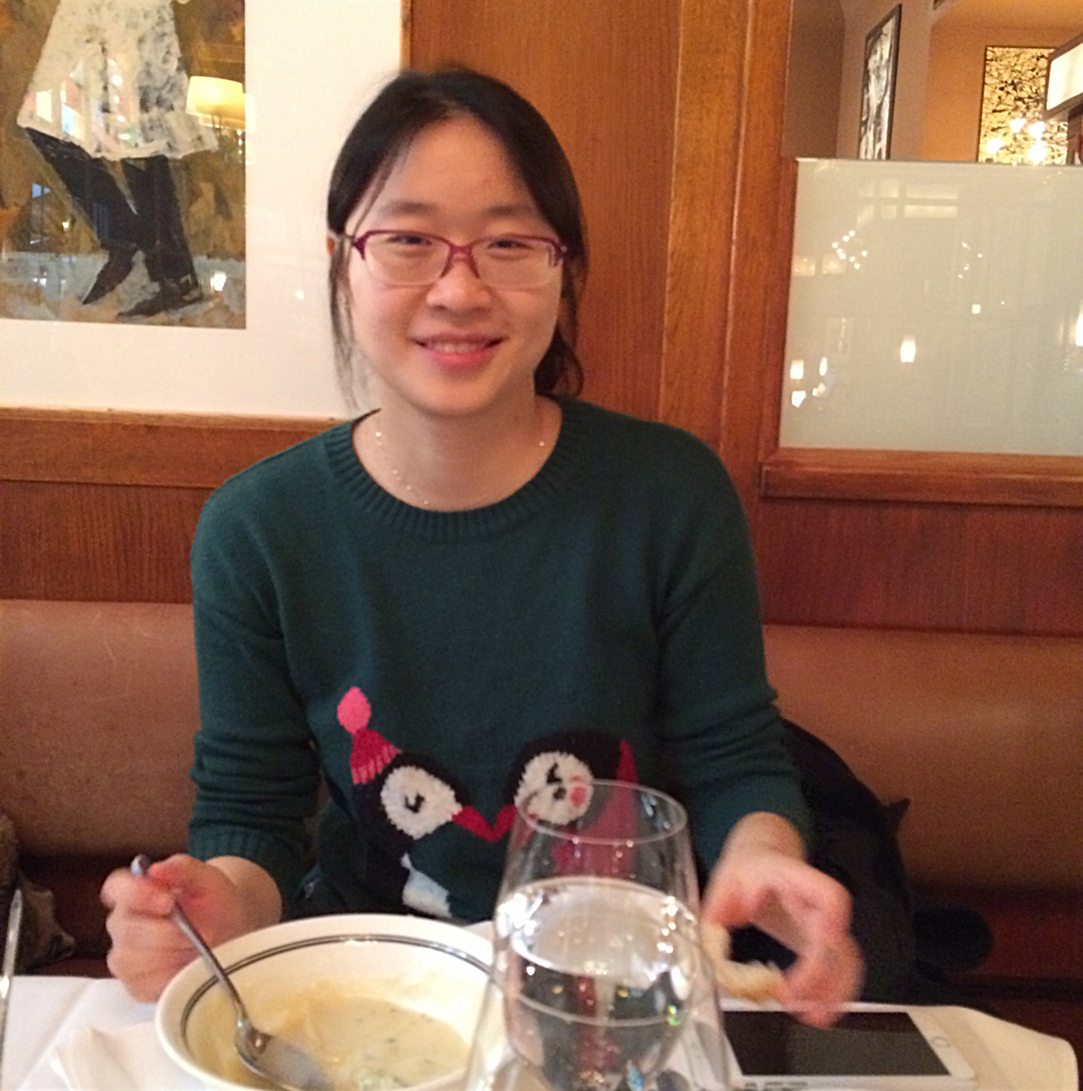
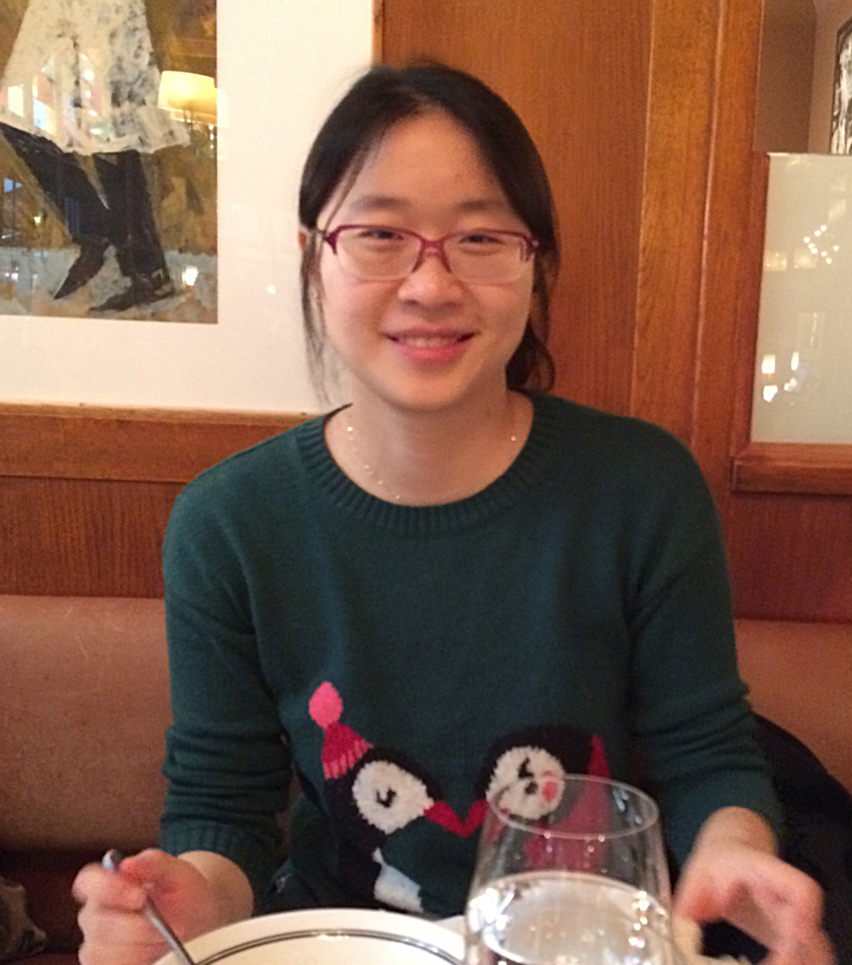
Changed to fixed size images and cropped the bunch

diff --git a/index.html b/index.html
@@ -226,7 +226,7 @@
                 <div class="col-sm-2"></div>
                 <div class="col-sm-2">
                     <div class="team-member">
-                        <img src="img/Kevin_Profile.jpg" class="img-responsive img-circle" alt=""><h4>Kevin</h4><ul class="list-inline social-buttons"><li><a href="mailto:kevinbw@kth.se"><i class="fa fa-envelope"></i></a>
+                        <img src="img/Kevin_Profile.jpg" class="img-circle " alt=""><h4>Kevin</h4><ul class="list-inline social-buttons"><li><a href="mailto:kevinbw@kth.se"><i class="fa fa-envelope"></i></a>
                             </li>
                             <li><a href="https://www.linkedin.com/in/kevin-whittaker-a082b439"><i class="fa fa-linkedin"></i></a>
                             </li>
@@ -235,7 +235,7 @@
                 </div>
                 <div class="col-sm-2">
                     <div class="team-member">
-                        <img src="img/Emil_Profile.jpg" class="img-responsive img-circle" alt=""><h4>Emil</h4>
+                        <img src="img/Emil_Profile.jpg" class="img-circle " alt=""><h4>Emil</h4>
                         <ul class="list-inline social-buttons">
                             <li>
                                 <a href="mailto:emiwes@kth.se">
@@ -249,7 +249,7 @@
                 </div>
                 <div class="col-sm-2">
                     <div class="team-member">
-                        <img src="img/Maria_Profile.jpeg" class="img-responsive img-circle" alt=""><h4>Maria</h4>
+                        <img src="img/Maria_Profile.jpeg" class="img-circle " alt=""><h4>Maria</h4>
                         <ul class="list-inline social-buttons">
                             <li>
                                 <a href="mailto:krinaki@kth.se">
@@ -261,7 +261,7 @@
                 </div>
                 <div  class="col-sm-2">
                     <div class="team-member">
-                        <img src="img/Oskar_Profile.jpg" class="img-responsive img-circle"alt=""><h4>Oscar</h4>
+                        <img src="img/Oskar_Profile.jpg" class="img-circle "alt=""><h4>Oscar</h4>
                         <ul class="list-inline social-buttons">
                             <li>
                                 <a href="#">
@@ -278,7 +278,7 @@
                 <div class="col-sm-3"></div>
                     <div class="col-sm-2">
                         <div class="team-member">
-                            <img src="img/Fredrik_profile.jpg" class="img-responsive img-circle"alt=""><h4>Fredrik</h4>
+                            <img src="img/Fredrik_profile.jpg" class="img-circle "alt=""><h4>Fredrik</h4>
                             
                             <ul class="list-inline social-buttons">
                                 <li>
@@ -297,7 +297,7 @@
 
                     <div class="col-sm-2">
                         <div class="team-member">
-                            <img src="img/Max_profile.jpg" class="img-responsive img-circle"alt=""><h4>Max</h4>
+                            <img src="img/Max_profile.jpg" class="img-circle "alt=""><h4>Max</h4>
                             <ul class="list-inline social-buttons">
                                 <li><a href="mailto:dyrhage@kth.se">
                                     <i class="fa fa-envelope"></i>
@@ -314,7 +314,7 @@
 
                     <div class="col-sm-2">
                         <div class="team-member">
-                            <img src="img/Yingjie%20Liang.jpg" class="img-responsive img-circle" alt=""><h4>Yingjie</h4><ul class="list-inline social-buttons"><li><a href="mailto:johannna@skylike.com"><i class="fa fa-envelope"></i></a>
+                            <img src="img/Yingjie%20Liang.jpg" class="img-circle " alt=""><h4>Yingjie</h4><ul class="list-inline social-buttons"><li><a href="mailto:johannna@skylike.com"><i class="fa fa-envelope"></i></a>
                             </li>
                             <li><a href="se.linkedin.com/pub/johanna-m%C3%A4h%C3%B6nen/62/a67/335/en"><i class="fa fa-linkedin"></i></a>
                             </li>
@@ -324,7 +324,8 @@
             </div>
             <div class="row">
                 <div class="col-lg-8 col-lg-offset-2 text-center">
-                    <p class="large text-center">Supervisor: <a href="se.linkedin.com/in/marioromero/en">Mario Romero</a>.</p>
+                    <p class="large text-center">Supervisor: <a href="se.linkedin.com/in/marioromero/en">Mario Romero</a></p>
+                    <p class="large text-center">Contact: <a href="mailto:info@smoothly.se" target="_top">info@smoothly.se</a></p>
                 </div>
             </div>
         </div>

diff --git a/css/supperManCss.css b/css/supperManCss.css
@@ -183,12 +183,16 @@ header .intro-text .intro-heading {
     display: block;
     }
 
+.profile-img{
+  width:120px;
+}
+
 .team-member {
     margin-bottom: 50px;
     text-align: center;
 }
 .team-member img {
-    width: 170px;
+    width: 150px;
     height: 170px;
     margin: 0 auto;
 }
